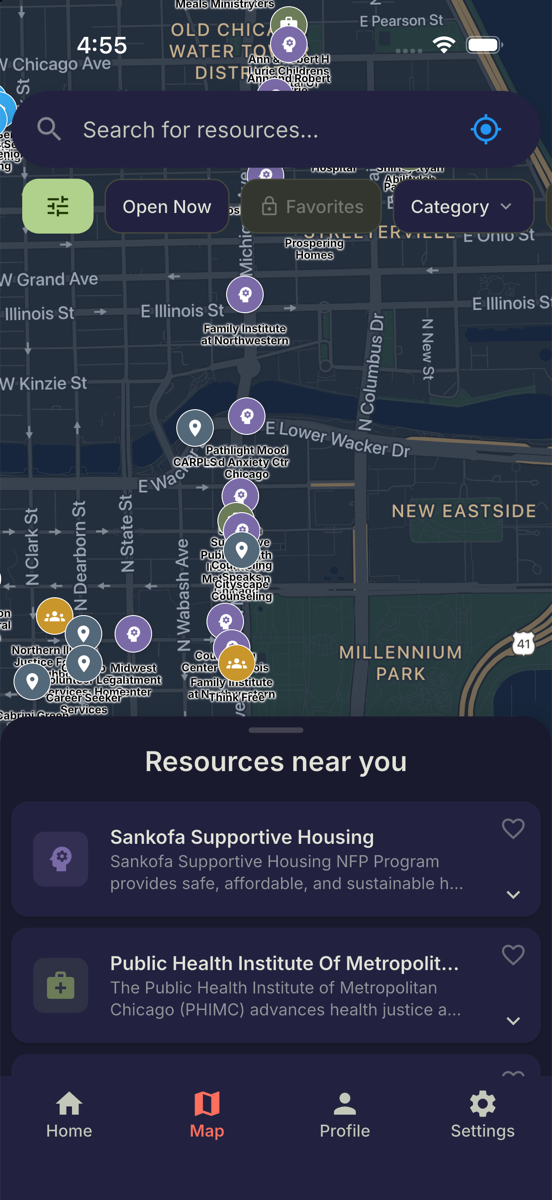
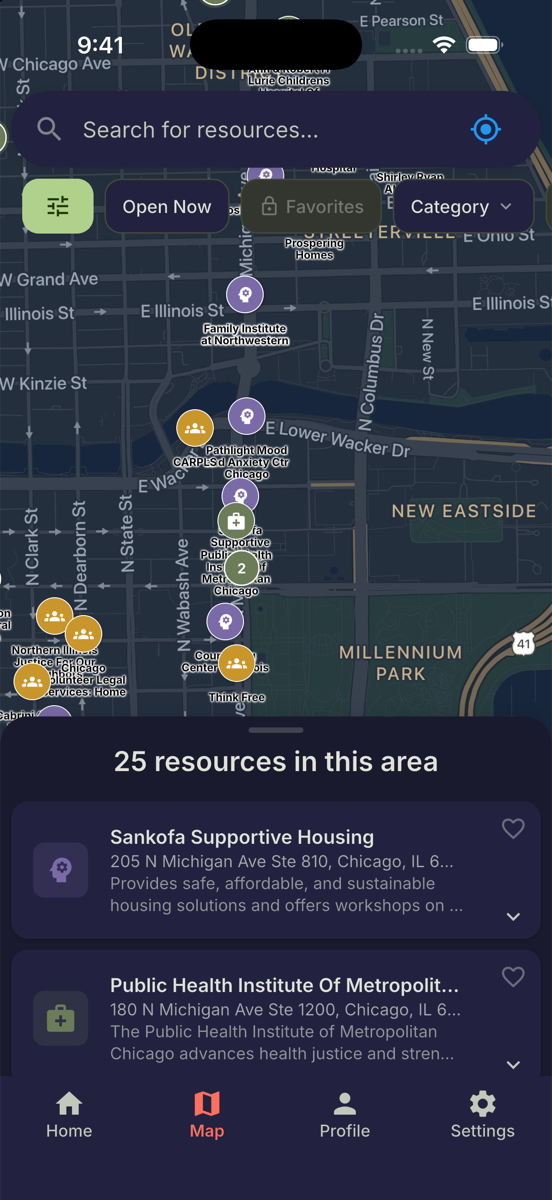
chore: refresh the Claude Design map captures for 1.1.0
The two Map device captures still showed the previous list header, rows
without addresses and the old facility card. Retaken on the current build;
the notes now say how, and drop a reason that stopped applying once the app
adopted the UIScene lifecycle.

diff --git a/tool/design/capture_map_backgrounds.dart b/tool/design/capture_map_backgrounds.dart
@@ -7,8 +7,7 @@
 // iPhone 17e — 390×844pt, the design frame — on the oldest installed
 // runtime), screenshots each state it announces, and writes 2x JPEGs to
 // .design-sync/captures/. Needs Xcode and the gitignored iOS Maps key the app
-// build already uses. Until the app adopts the UIScene lifecycle, builds from
-// the iOS 27 SDK don't launch on iOS 27 simulators, hence the oldest runtime.
+// build already uses.
 import 'dart:async';
 import 'dart:convert';
 import 'dart:io';

diff --git a/.design-sync/NOTES.md b/.design-sync/NOTES.md
@@ -63,17 +63,20 @@ iPhone 17e simulator and writes `.design-sync/captures/map_bg_*.jpg`.
 ## Re-sync risks
 
 - **Map backgrounds go stale** when `assets/map_styles/` or the map's zooms
-  change — re-run the capture. It picks the *oldest* iOS runtime on purpose:
-  until the app adopts the UIScene lifecycle, builds from the iOS 27 SDK don't
-  launch on iOS 27 simulators. A clean iOS build can hit stale-module errors
-  after plugin bumps; delete `build/ios` and retry.
+  change — re-run the capture. It uses the iPhone 17e simulator on the oldest
+  installed iOS runtime; pass `--device <udid>` for another. A clean iOS build
+  can hit stale-module errors after plugin bumps; delete `build/ios` and retry.
 - **Map kit sizes mirror `MarkerUtils`** at 3x (pin circle 34px, clusters
   25/31/36px). `test/features/map/presentation/widgets/marker_icon_factory_test.dart`
   guards the bitmap sizes; if it changes, update `.design-sync/map-kit.css`.
-- **Device captures go stale silently.** `.design-sync/captures/` (Home and
-  Map, taken 2026-09-28 on an iPhone 17 Pro simulator and a Pixel 10 Pro
-  emulator) can't be regenerated by the tool — Home and Map need Google Maps
-  and Supabase. Re-capture them when those screens change.
+- **Device captures go stale silently.** `.design-sync/captures/` (Home taken
+  2026-09-28, Map 2026-10-12 at version 1.1.0, on an iPhone 17 Pro simulator
+  and a Pixel 10 Pro emulator) can't be regenerated by the tool — Home and Map
+  need Google Maps and Supabase. Re-capture them when those screens change:
+  run the app as a guest with the simulator in dark appearance
+  (`xcrun simctl ui <udid> appearance dark`), screenshot the Map tab with the
+  list at its default height and again with a pin selected, and save each
+  552 px wide (`sips -Z 1200`).
 - **Reference renders depend on the machine:** SF Pro from
   `/System/Library/Fonts/SFNS.ttf` and Roboto from the Flutter SDK's
   `material_fonts` cache. Without them the sign-in buttons render in a
